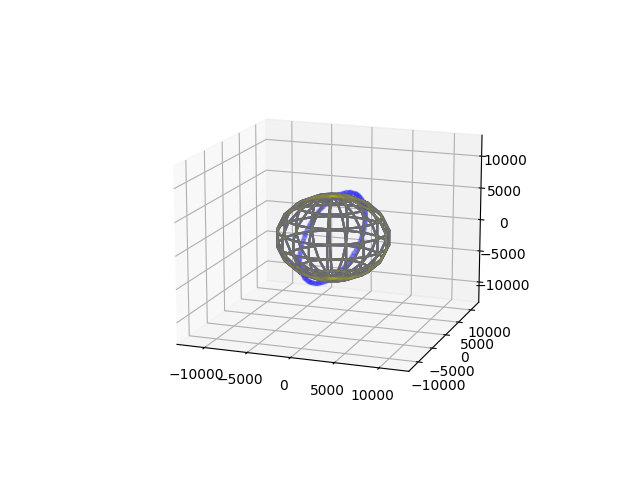
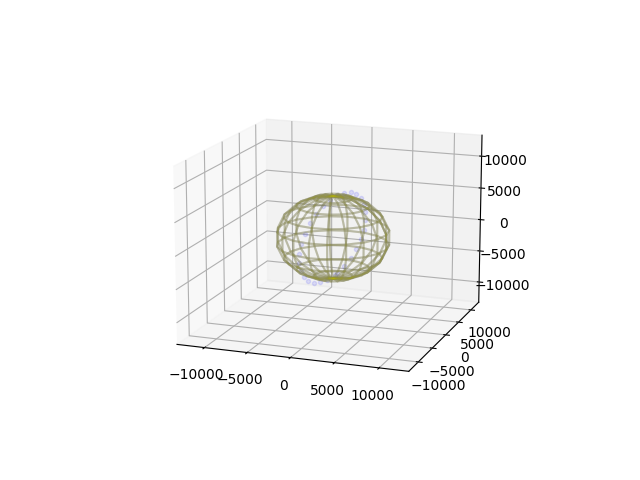
Before JC changes on estiamtion

Changed region(s): [[0.4062, 0.375, 0.625, 0.5938]]

diff --git a/Simulation/Parameters.py b/Simulation/Parameters.py
@@ -280,7 +280,12 @@ class SET_PARAMS:
     Coarse_sun_sensor_angle = Coarse_sun_sensor_FOV/2 # The angle use to check whether the dot product angle is within the field of view
     Coarse_sun_noise = 0.01 #standard deviation away from where the actual sun is
 
-    # Constellation parameters
+    # Angular Momentum sensor
+    Angular_sensor_noise = 0.001
+
+    ############################
+    # CONSTELLATION PARAMETERS #
+    ############################
     Constellation = False
     Number_of_satellites = 1
     k_nearest_satellites = 5
@@ -540,13 +545,7 @@ class Overall_control(Fault_parameters):
         self.oscillation_magnitude = 0.2
         self.angular_wheels_max = SET_PARAMS.wheel_angular_d_max*random_size(minimum = Min_high_speed_percentage*0.75, maximum = Max_high_speed_percentage)
         self.angular_wheels_min = SET_PARAMS.wheel_angular_d_max*random_size(minimum = Min_low_speed_percentage, maximum = Max_low_speed_percentage)
-        self.first = True
-        super().__init__(self.Fault_rate_per_hour, self.number_of_failures, self.failures, seed)
-
-    def Increasing_angular_RW_momentum(self, angular_wheels):
-        if self.first:
-            self.angular_wheels = angular_wheels
-            self.first = False
+        self.first = True N_control_magnetic - N_control_wheel
         if self.failure == "Increasing_angular_RW_momentum":
             self.angular_wheels = np.minimum((self.angular_wheels + abs(self.angular_wheels)/10), self.angular_wheels_max*np.ones(angular_wheels.shape)) 
         else:

diff --git a/Simulation/Extended_KF.py b/Simulation/Extended_KF.py
@@ -41,7 +41,7 @@ class EKF():
 
         self.Inertia = SET_PARAMS.Inertia
 
-        self.R_k, self.m_k = measurement_noise_covariance_matrix(self.measurement_noise)
+        self.R_k, self.m_k = measurement_noise_covariance_matrix(0.5)       # standard deviation
 
         self.Q_wt = system_noise_covariance_matrix(self.angular_noise)
 

diff --git a/Simulation/dynamics.py b/Simulation/dynamics.py
@@ -222,7 +222,7 @@ class Dynamics:
 
         self.angular_momentum = rungeKutta_h(x0, self.angular_momentum, x, h, N_control_wheel)
 
-        self.angular_momentum = self.angular_momentum
+        self.angular_momentum = self.Angular_sensor_fault.normal_noise(self.angular_momentum, SET_PARAMS.Angular_sensor_noise)
 
         return y
 

diff --git a/Main.py b/Main.py
@@ -70,7 +70,7 @@ if __name__ == "__main__":
     SET_PARAMS.save_as = ".xlsx"
     SET_PARAMS.Kalman_filter_use = "EKF"
     SET_PARAMS.Number_of_orbits = 10
-    SET_PARAMS.skip = 200
+    SET_PARAMS.skip = 20
     SET_PARAMS.Number_of_satellites = 100
     SET_PARAMS.Constellation = False
     SET_PARAMS.k_nearest_satellites = 5
